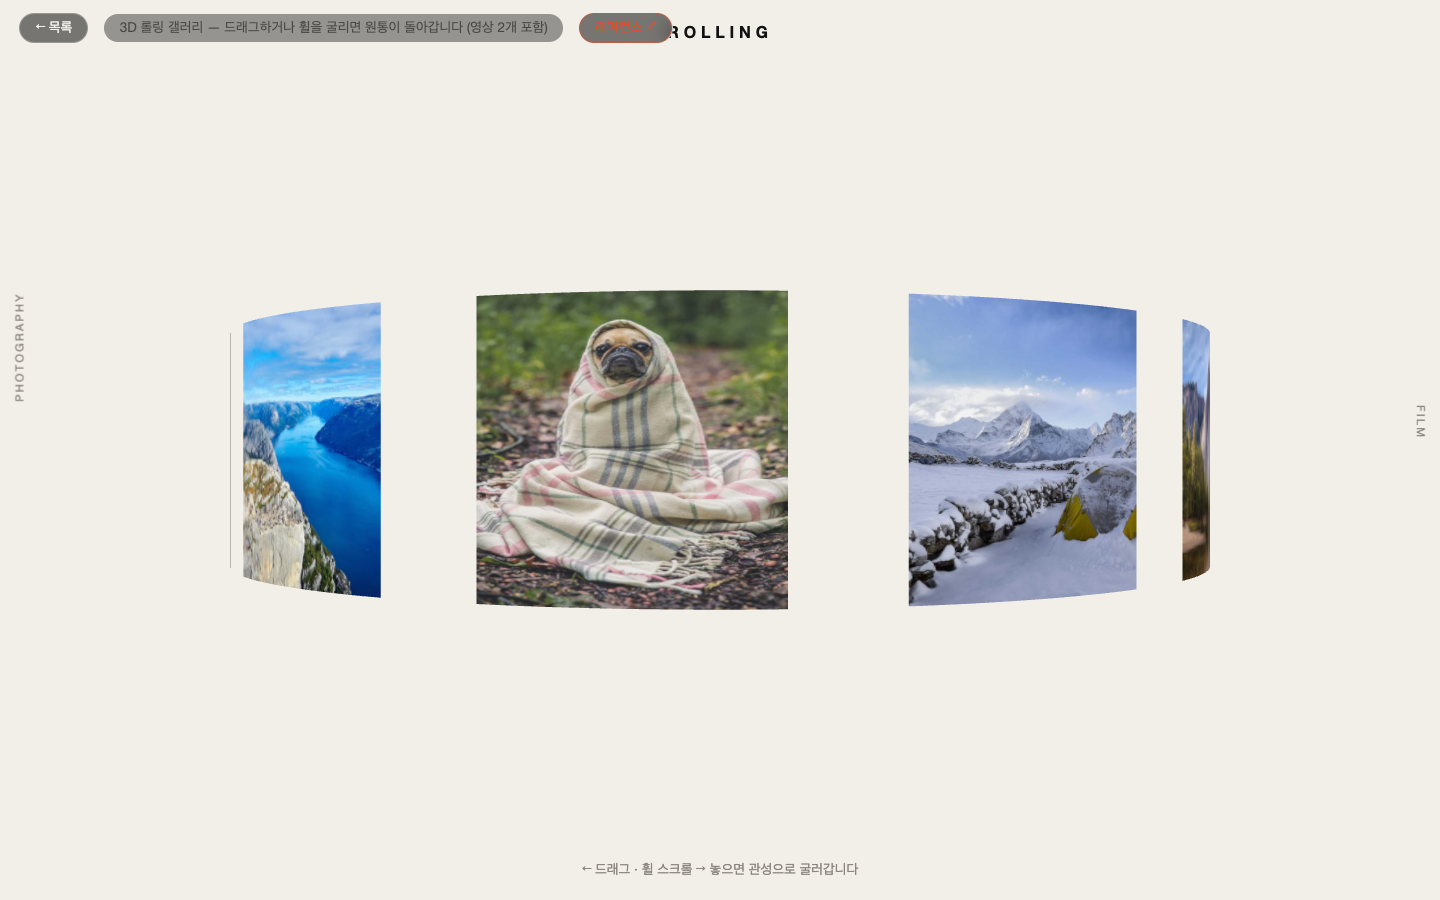
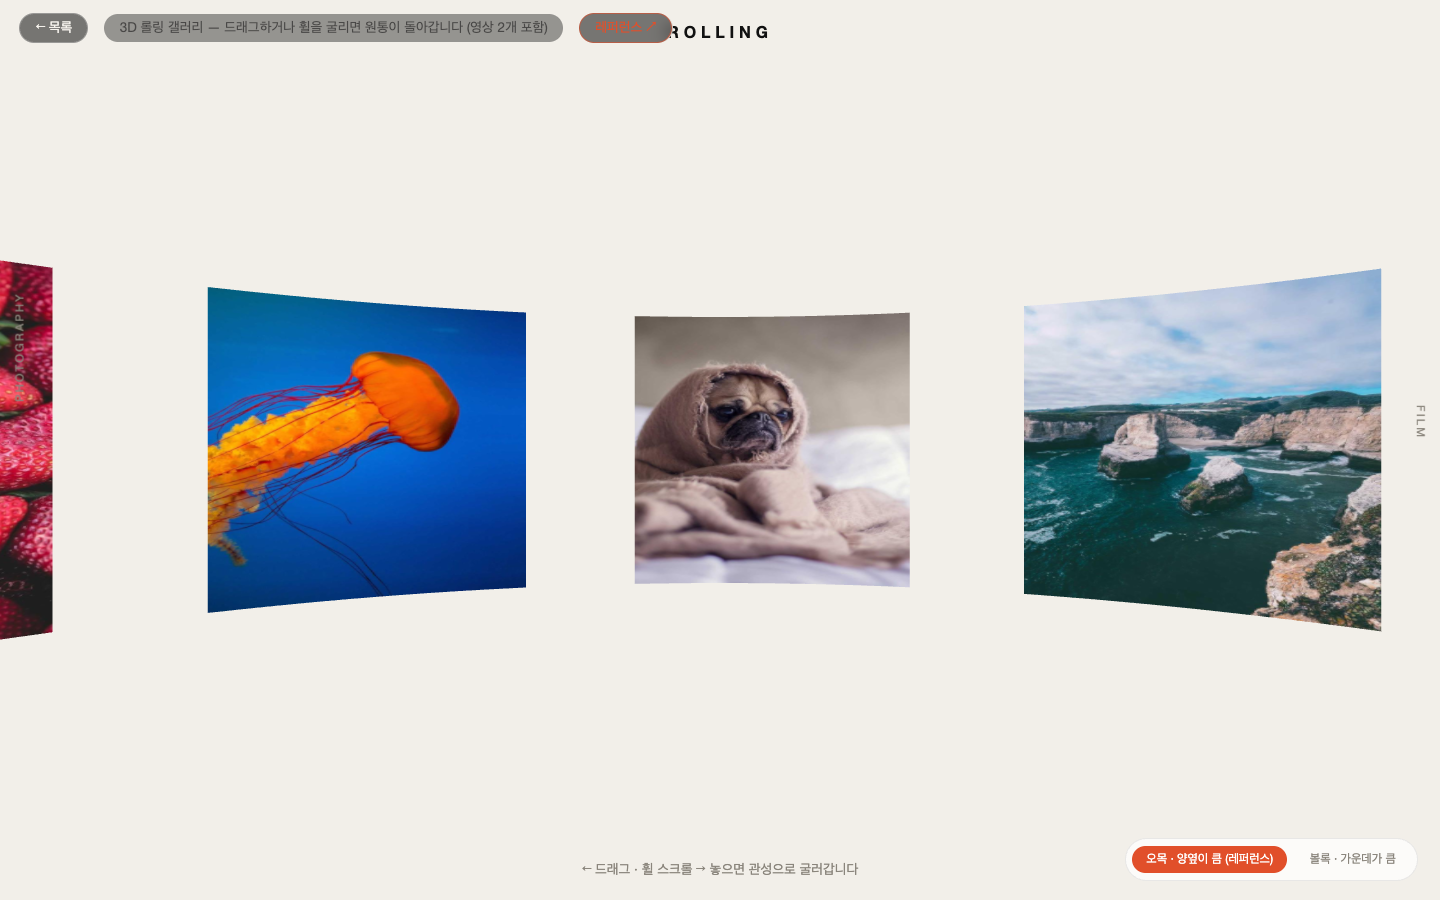
롤링 갤러리 시점 토글 — 오목(원통 안, 레퍼런스처럼 양옆이 큼)·볼록(가운데가 큼), 기본은 오목

Changed region(s): [[0.125, 0.28, 0.9688, 0.7156], [0.0, 0.28, 0.0625, 0.7156], [0.7812, 0.9333, 0.9688, 0.9956]]

diff --git a/interaction-patterns/rolling-gallery.html b/interaction-patterns/rolling-gallery.html
@@ -17,6 +17,16 @@
     pointer-events:none; }
   .side.l { left:1.2rem; transform:rotate(-90deg) translateX(50%); transform-origin:left center; }
   .side.r { right:1.2rem; transform:rotate(90deg) translateX(-50%); transform-origin:right center; }
+  .mode {
+    position:fixed; right:1.4rem; bottom:1.2rem; display:flex; gap:.5rem;
+    background:rgba(255,255,255,.75); backdrop-filter:blur(6px);
+    padding:.4rem; border-radius:99px; border:1px solid rgba(0,0,0,.08);
+  }
+  .mode button {
+    font:inherit; font-size:.75rem; border:none; background:transparent; color:#8a857c;
+    padding:.4rem .9rem; border-radius:99px; cursor:pointer;
+  }
+  .mode button.on { background:#e14f2a; color:#fff; }
 </style>
 </head>
 <body>
@@ -26,6 +36,10 @@
 <p class="hint">← 드래그 · 휠 스크롤 → 놓으면 관성으로 굴러갑니다</p>
 <div class="side l">PHOTOGRAPHY</div>
 <div class="side r">FILM</div>
+<div class="mode">
+  <button data-m="in" class="on" onclick="setMode(true)">오목 · 양옆이 큼 (레퍼런스)</button>
+  <button data-m="out" onclick="setMode(false)">볼록 · 가운데가 큼</button>
+</div>
 
 <script src="https://cdn.jsdelivr.net/npm/three@0.160.0/build/three.min.js"></script>
 <script>
@@ -75,11 +89,28 @@ for (let i = 0; i < N; i++){
   if (i % 5 === 4) tex = makeVideoTexture(VIDEOS[(i/5|0) % VIDEOS.length]);  // 5번째마다 영상
   else { tex = texLoader.load(IMAGES[i - (i/5|0)]); tex.colorSpace = THREE.SRGBColorSpace; }
   tex.wrapS = THREE.ClampToEdgeWrapping;
-  // 바깥면만 렌더(기본 FrontSide) → 뒤쪽으로 돌아간 패널은 자동으로 사라져 깔끔
-  const mat = new THREE.MeshBasicMaterial({ map: tex });
+  const mat = new THREE.MeshBasicMaterial({ map: tex, side: THREE.DoubleSide });
   const mesh = new THREE.Mesh(geo, mat);
   mesh.rotation.y = angle;
   group.add(mesh);
+}
+
+/* ── 시점 모드: 오목(원통 안, 레퍼런스 방식 — 양옆이 큼) / 볼록(원통 밖 — 가운데가 큼) ── */
+let concave = true, dirSign = 1;
+function setMode(inside){
+  concave = inside;
+  if (inside){
+    camera.position.set(0, 0, 7.5);   // 원통 안으로 — 정면(먼 벽)은 작고 양옆이 크게 감쌈
+    camera.fov = 52; dirSign = -1;
+    group.children.forEach(m => m.scale.x = -1);  // 안쪽에서 봐도 사진이 안 뒤집히게
+  } else {
+    camera.position.set(0, 0, 38);    // 원통 밖 — 가운데 패널이 가장 큼
+    camera.fov = 40; dirSign = 1;
+    group.children.forEach(m => m.scale.x = 1);
+  }
+  camera.updateProjectionMatrix();
+  document.querySelectorAll('.mode button').forEach(b =>
+    b.classList.toggle('on', (b.dataset.m === 'in') === inside));
 }
 
 /* ── 회전 제어: 드래그 + 휠 + 관성 + 미세 자동회전 ── */
@@ -91,13 +122,14 @@ container.addEventListener('pointerdown', e => {
 container.addEventListener('pointermove', e => {
   if (!dragging) return;
   const dx = e.clientX - lastX; lastX = e.clientX;
-  const d = dx * 0.0035;
+  const d = dx * 0.0035 * dirSign;   // 안에서 볼 땐 체감 방향이 반대라 부호 반전
   group.rotation.y += d; vel = d;
 });
 ['pointerup','pointercancel'].forEach(ev => container.addEventListener(ev, () => {
   dragging = false; container.classList.remove('grabbing');
 }));
-addEventListener('wheel', e => { vel += e.deltaY * 0.00012; }, { passive:true });
+addEventListener('wheel', e => { vel += e.deltaY * 0.00012 * dirSign; }, { passive:true });
+setMode(true);   // 기본: 레퍼런스(meech213)와 같은 오목 시점
 addEventListener('resize', () => {
   camera.aspect = innerWidth/innerHeight; camera.updateProjectionMatrix();
   renderer.setSize(innerWidth, innerHeight);
